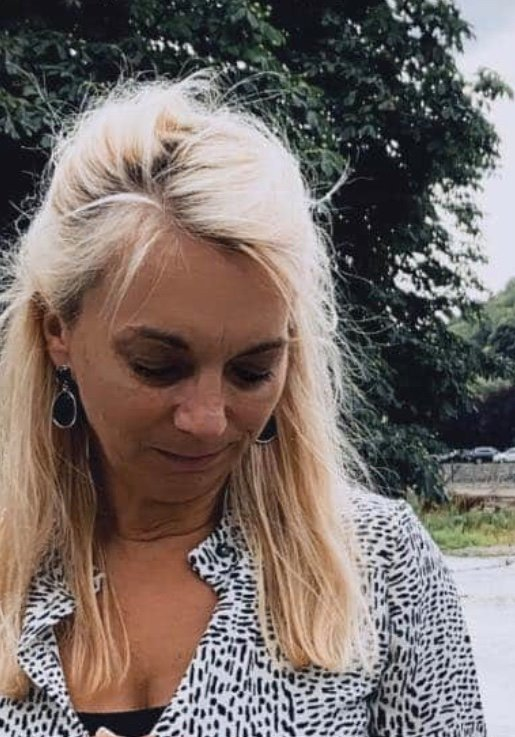
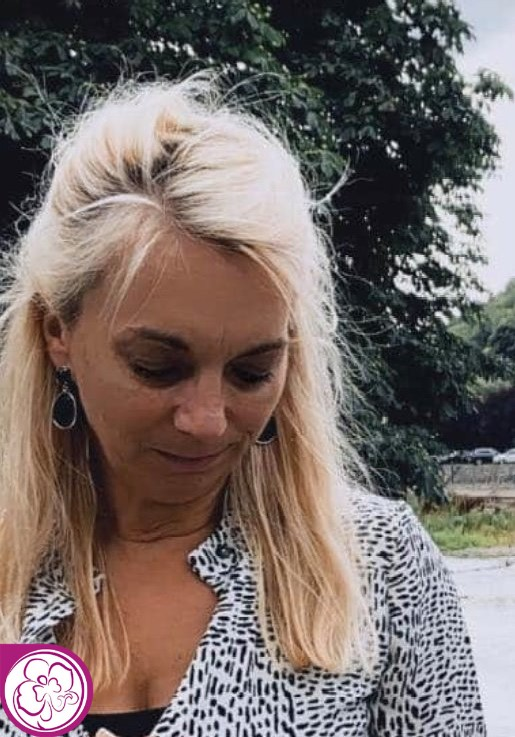
Beveiliging foto's + andere

diff --git a/VitaliteitsScan-subpagina.html b/VitaliteitsScan-subpagina.html
@@ -9,7 +9,7 @@
     <header class="myheader" w3-include-html="headerinclude.html"></header>
     <article>
         <section class="massagesection">
-           <img src="img/3.png" alt=""  width="500px" height="350px">
+            <img src="img/3.png" alt="" width="500px" height="350px">
             <p class="leavespace" style="color: #940868;text-align: justify;"><strong>Wat kan ik voor je doen?</strong></p>
             <p style="text-align: justify" class="leavespace">Zou jij geinteresseerd zijn in een GRATIS analyse en behandeling op afstand met
                 helende frequenties om kennis te maken met Healy?</p>
@@ -23,6 +23,21 @@
                 worden gegeven.</p>
             <p style="text-align: justify" class="leavespace">Ben je benieuwd wat nog meer kan?</p>
         </section>
+        <section>
+            <table>
+                <tr>
+                    <th>Tijd</th>
+                    <th>Prijs</th>
+                </tr>
+
+                <tr>
+                    <td>*min</td>
+                    <td>*€</td>
+                </tr>
+            </table>
+            <a class="button" href="Contact-pagina.html#afspraak">Maak een afspraak</a>
+            <a class="button" href="Massages-pagina.html">Alle massages</a>
+        </section>
 
     </article>
     <div w3-include-html="popup-nieuwsbriefinclude.html"></div>
@@ -32,36 +47,42 @@
 </html>
 <script w3-include-html="popup-javascriptinclude.html"></script>
 <script>
-function includeHTML() {
-  var z, i, elmnt, file, xhttp;
-  /* Loop through a collection of all HTML elements: */
-  z = document.getElementsByTagName("*");
-  for (i = 0; i < z.length; i++) {
-    elmnt = z[i];
-    /*search for elements with a certain atrribute:*/
-    file = elmnt.getAttribute("w3-include-html");
-    if (file) {
-      /* Make an HTTP request using the attribute value as the file name: */
-      xhttp = new XMLHttpRequest();
-      xhttp.onreadystatechange = function() {
-        if (this.readyState == 4) {
-          if (this.status == 200) {elmnt.innerHTML = this.responseText;}
-          if (this.status == 404) {elmnt.innerHTML = "Page not found.";}
-          /* Remove the attribute, and call this function once more: */
-          elmnt.removeAttribute("w3-include-html");
-          includeHTML();
+    function includeHTML() {
+        var z, i, elmnt, file, xhttp;
+        /* Loop through a collection of all HTML elements: */
+        z = document.getElementsByTagName("*");
+        for (i = 0; i < z.length; i++) {
+            elmnt = z[i];
+            /*search for elements with a certain atrribute:*/
+            file = elmnt.getAttribute("w3-include-html");
+            if (file) {
+                /* Make an HTTP request using the attribute value as the file name: */
+                xhttp = new XMLHttpRequest();
+                xhttp.onreadystatechange = function() {
+                    if (this.readyState == 4) {
+                        if (this.status == 200) {
+                            elmnt.innerHTML = this.responseText;
+                        }
+                        if (this.status == 404) {
+                            elmnt.innerHTML = "Page not found.";
+                        }
+                        /* Remove the attribute, and call this function once more: */
+                        elmnt.removeAttribute("w3-include-html");
+                        includeHTML();
+                    }
+                }
+                xhttp.open("GET", file, true);
+                xhttp.send();
+                /* Exit the function: */
+                return;
+            }
         }
-      }
-      xhttp.open("GET", file, true);
-      xhttp.send();
-      /* Exit the function: */
-      return;
     }
-  }
-}
+
 </script>
 
 <script>
-includeHTML();
+    includeHTML();
+
 </script>
 <script src="scriptincludernav.js"></script>

diff --git a/About-pagina.html b/About-pagina.html
@@ -11,7 +11,7 @@
     <article>
 
         <section class="aboutsection">
-            <img class="aboutimage" src="img/Veerle.PNG" alt="Foto3">
+            <img class="aboutimage" src="img/testimage1.bmp.png" alt="Foto3">
             <h2>
                 Oosterse en Energetische Natuurfilosofie : het thuiskomen na een magische zoektocht
             </h2>

diff --git a/css/Css.css b/css/Css.css
@@ -280,7 +280,7 @@ h1 {
 }
 
 .aboutimage{
-    border-radius: 50px; 
+    border-radius: 35px; 
 }
 
 .mainimagefreuqentie {
@@ -355,7 +355,7 @@ section h2 {
     width: 258px;
     height: 369px;
     margin-bottom: 5%;
-    border-radius: 50px; 
+    border-radius: 25px; 
 }
 
 .gezondheid {
